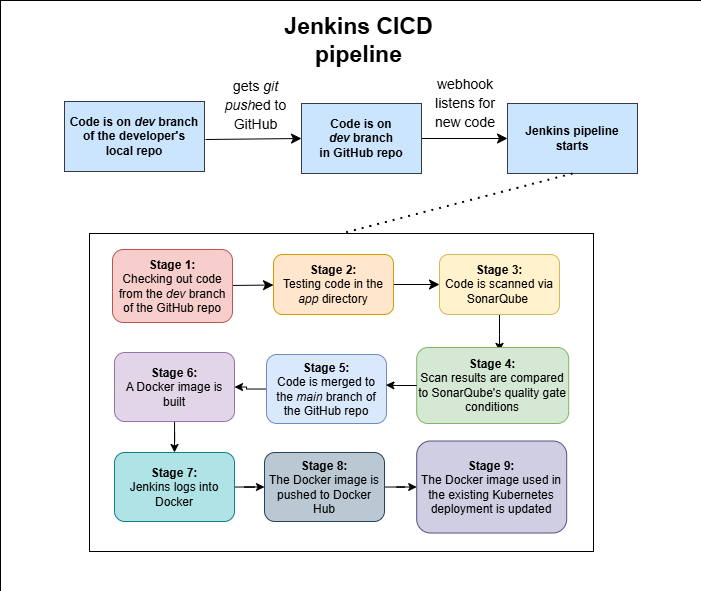
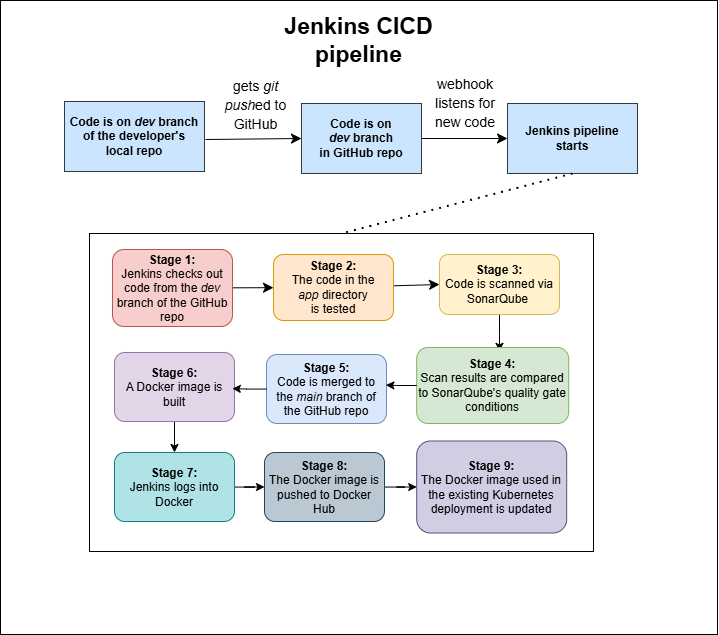
project notes updated

diff --git a/Project 1/README.md b/Project 1/README.md
@@ -8,7 +8,7 @@
 
 ## Goal of the project
 
-The goal of this project is to implement a CI/CD pipeline for efficient software delivery. The pipeline will run on Jenkins and use SonarQube, Docker, and Kubernetes for the automated integration, code-scanning, deployment, and management of a containerised application already running via Minikube on an EC2.
+The goal of this project is to implement a CI/CD pipeline for efficient software delivery. The pipeline will run on Jenkins and use SonarQube, Docker, and Kubernetes for the automated integration, code-scanning, deployment, and management of a containerised application already running via Minikube on an EC2. Upon completion of the pipeline, a notification will be sent to a Slack channel to update the DevOps team on the result.
 
 ## Prerequisites
 
@@ -16,15 +16,18 @@ The goal of this project is to implement a CI/CD pipeline for efficient software
 - A Jenkins server
 - A target VM with the app already running via Minikube
 - A SonarQube server with a project for the app and a webhook set up to communicate with Jenkins
+- A Slack account & channel where notifications will be sent, with a token generated for Jenkins via the Slack's Jenkins integration
 - **Jenkins plugins**:
   - SSH Agent
   - SonarQube
   - NodeJS (with version 20 installed under *Manage Jenkins>Tools*)
+  - Slack Notifications (with workspace and default channel set under *Manage Jenkins>Tools*)
 - **Credentials loaded into Jenkins**:
   - Docker Hub username & password
   - SonarQube token
   - GitHub SSH key
   - SSH key for the target VMs
+  - Slack 
 
 ## Diagram of pipeline
 
@@ -46,3 +49,4 @@ The goal of this project is to implement a CI/CD pipeline for efficient software
    7. Jenkins logs into Docker using the provided credentials
    8. The Docker image is pushed to Docker Hub
    9. The Docker image used the existing Kubernetes deployment (running on Minikube on the target VM) is updated
+4.  Post-build, a notification is sent to the *#devopscicd* Slack channel informing the DevOps team of the build's result
